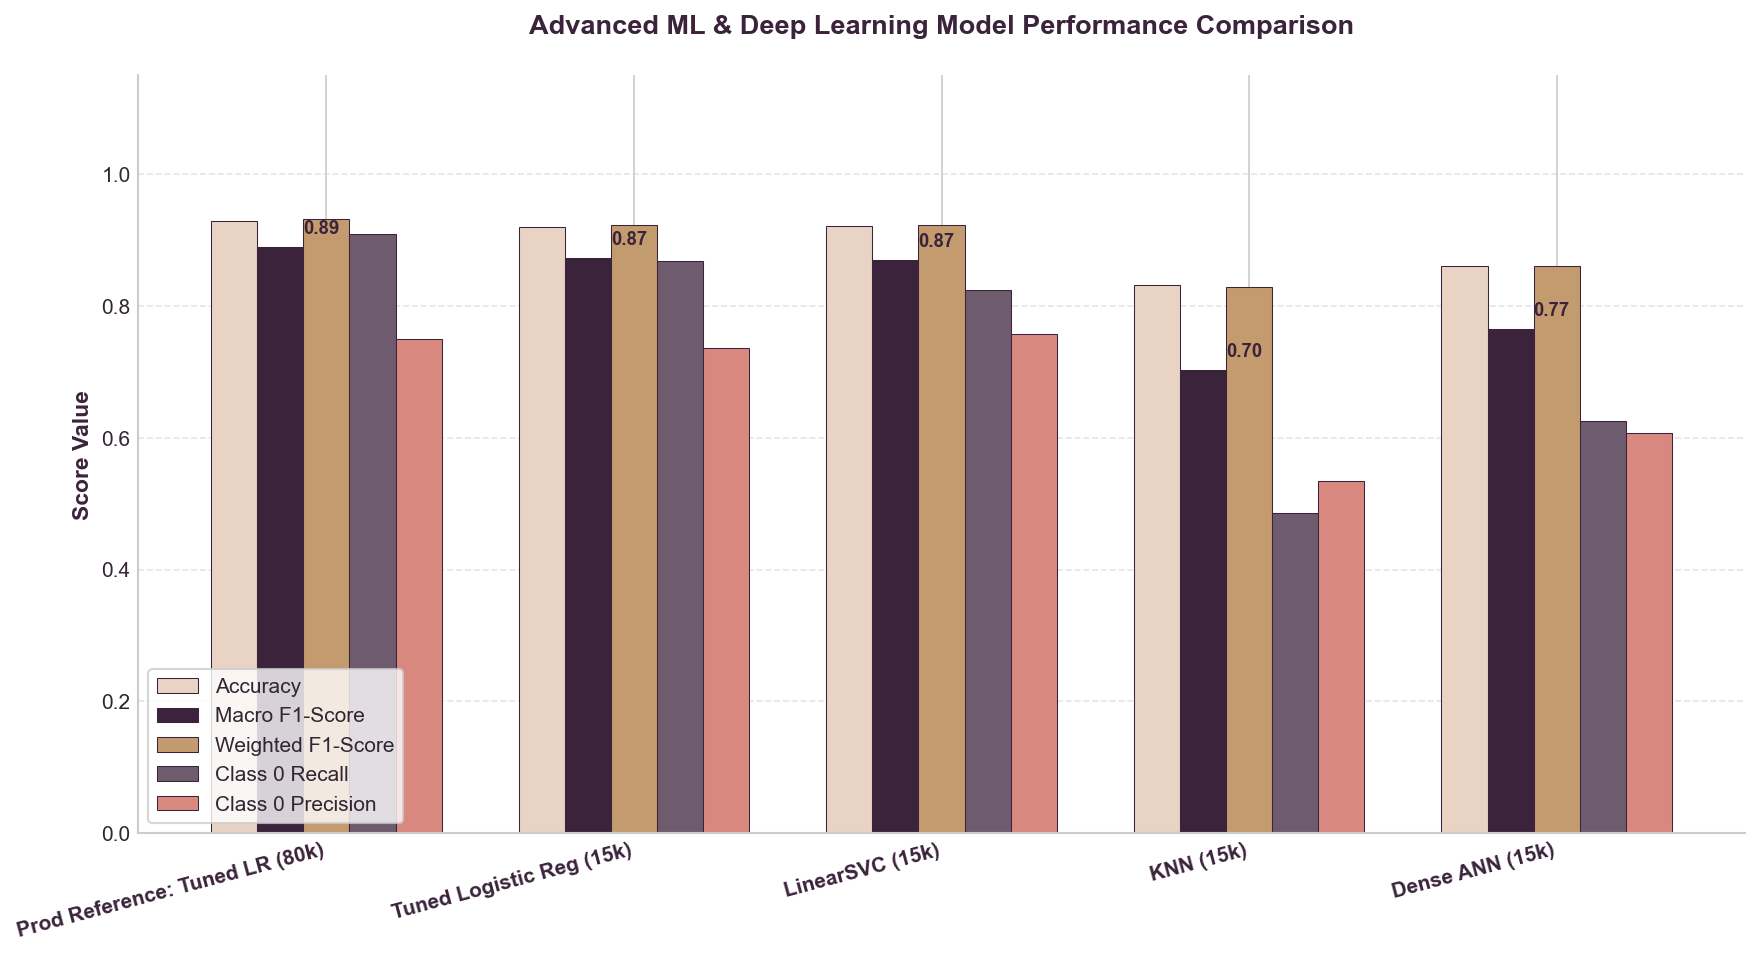
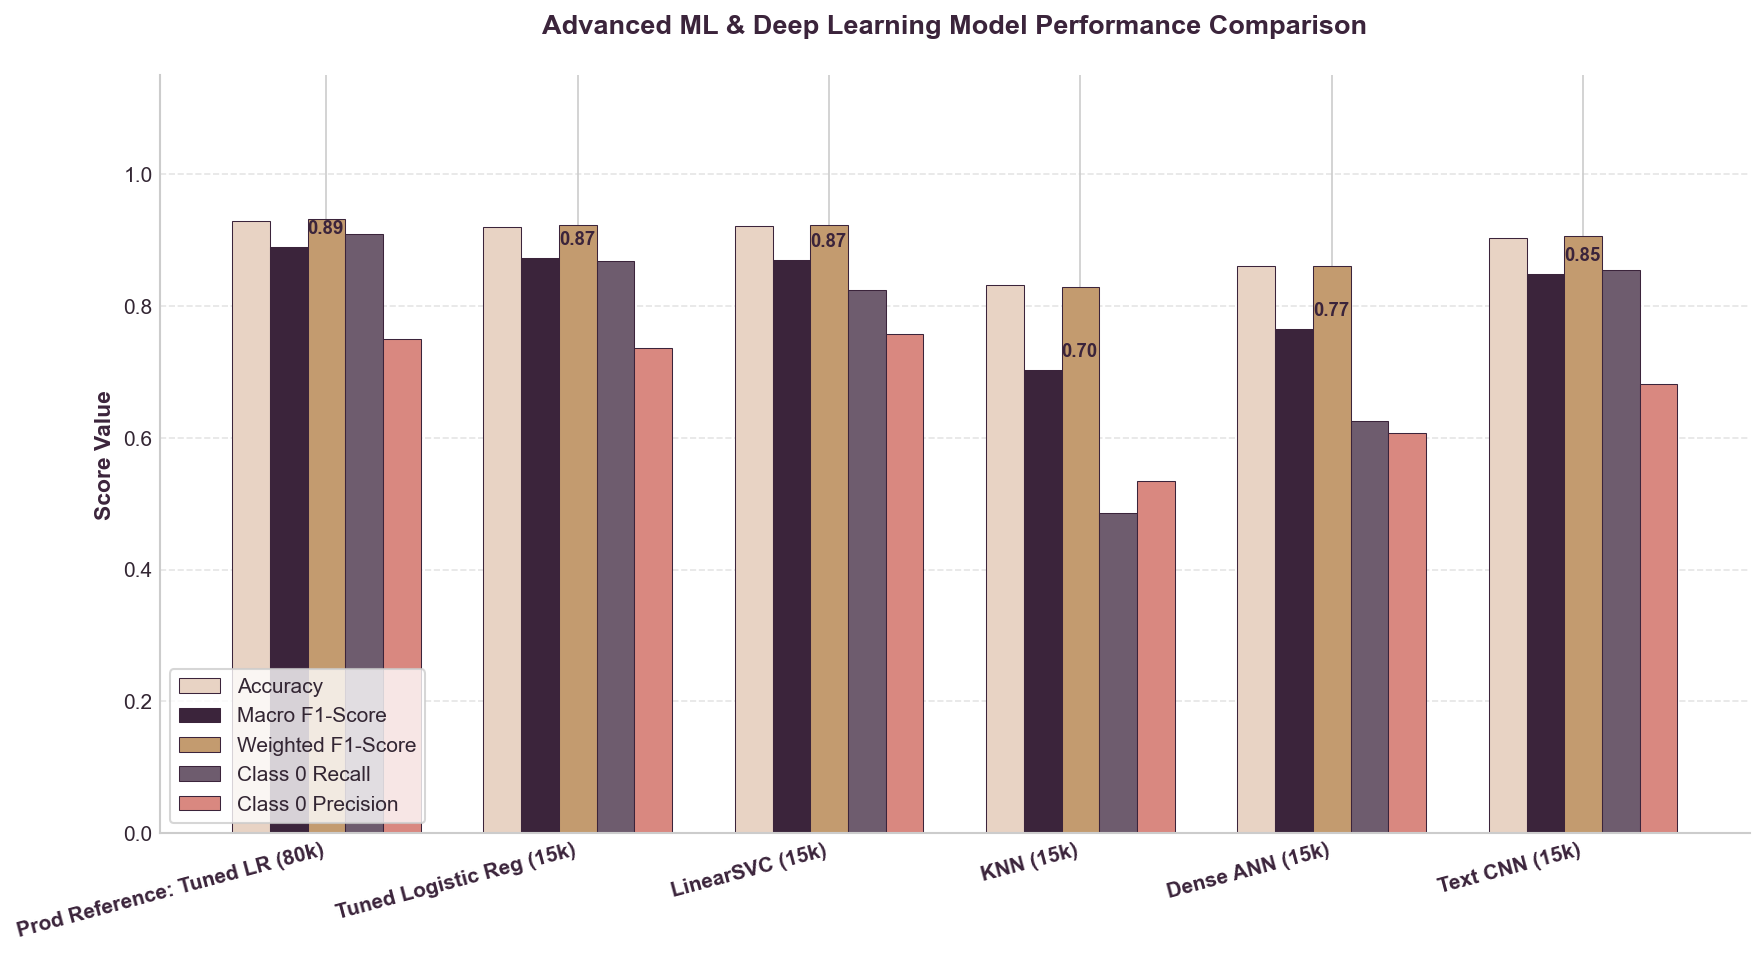
feat: integrate Colab text CNN results

diff --git a/ml/src/deep_learning_experiments.py b/ml/src/deep_learning_experiments.py
@@ -444,14 +444,43 @@ def train_and_evaluate_all():
         plt.savefig(figures_dir / "cnn_training_curves.png", dpi=150)
         plt.close()
     else:
-        print("\n--- Skipping Model 5: CNN (TensorFlow not available) ---")
-        # Document CNN skipped
-        results["cnn"] = {
-            "skipped": True,
-            "status": "Not executed – TensorFlow/Keras not available in this environment",
-            "reason": "TensorFlow/Keras was not available in this environment.",
-            "training_size": 15000
-        }
+        # Check if Colab results exist to merge them
+        colab_results_path = reports_dir / "cnn_colab_results.json"
+        if colab_results_path.exists():
+            print("\n--- Integrating Google Colab CNN Results ---")
+            try:
+                with open(colab_results_path, "r", encoding="utf-8") as f:
+                    colab_data = json.load(f)
+                results["cnn"] = {
+                    "accuracy": colab_data["accuracy"],
+                    "macro": colab_data["macro"],
+                    "weighted": colab_data["weighted"],
+                    "per_class": colab_data["per_class"],
+                    "training_time_seconds": colab_data["training_time_seconds"],
+                    "description": colab_data["description"],
+                    "training_size": colab_data["training_size"],
+                    "status": "Completed (Colab GPU)",
+                    "roc_auc": colab_data["roc_auc"],
+                    "pr_auc": colab_data["pr_auc"],
+                    "skipped": False
+                }
+                cnn_skipped = False
+            except Exception as e:
+                print(f"Error loading Colab results: {e}")
+                results["cnn"] = {
+                    "skipped": True,
+                    "status": "Not executed – TensorFlow/Keras not available in this environment",
+                    "reason": f"TensorFlow/Keras was not available, and error reading Colab results: {e}",
+                    "training_size": 15000
+                }
+        else:
+            print("\n--- Skipping Model 5: CNN (TensorFlow not available and no Colab results found) ---")
+            results["cnn"] = {
+                "skipped": True,
+                "status": "Not executed – TensorFlow/Keras not available in this environment",
+                "reason": "TensorFlow/Keras was not available in this environment.",
+                "training_size": 15000
+            }
 
     # Add training_size, status, roc_auc, and pr_auc to results JSON
     for m in results:
@@ -714,7 +743,7 @@ def train_and_evaluate_all():
                 class_names=["Low/Medium", "High"]
             )
             
-    if not cnn_skipped:
+    if tf_available and not cnn_skipped:
         y_prob_cnn = cnn_model.predict(X_test_seq).flatten()
         y_pred_cnn = (y_prob_cnn >= 0.5).astype(int)
         plot_confusion_matrix(

diff --git a/ml/reports/deep_learning_summary.md b/ml/reports/deep_learning_summary.md
@@ -26,9 +26,9 @@ The production model (trained on the full 80,000 training set) is included at th
 | :---: | :--- | :---: | :---: | :---: | :---: | :---: | :---: | :---: | :---: | :---: | :--- |
 | 1 | **Tuned Logistic Regression** | 15,000 | Completed | **92.05%** | **87.34%** | **92.29%** | **86.77%** | 73.57% | **96.60%** | **99.18%** | Tuned LR baseline for experimental split |
 | 2 | **LinearSVC** | 15,000 | Completed | 92.12% | 87.04% | 92.24% | 82.42% | **75.72%** | 96.17% | 99.06% | Linear Support Vector Classification |
-| 3 | **Dense ANN / MLP Fallback** | 15,000 | Completed | 86.06% | 76.57% | 86.14% | 62.55% | 60.78% | 89.01% | 97.26% | scikit-learn MLPClassifier early stopping fallback |
-| 4 | **KNN + SVD** | 15,000 | Completed | 83.20% | 70.37% | 82.88% | 48.53% | 53.43% | 80.39% | 94.65% | KNeighborsClassifier on 100-dim SVD features |
-| — | **Text CNN** | 15,000 | **Not executed – TensorFlow/Keras not available in this environment** | *N/A* | *N/A* | *N/A* | *N/A* | *N/A* | *N/A* | *N/A* | Skipped because TensorFlow was missing in Python 3.13 |
+| 3 | **Text CNN** | 15,000 | Completed (Colab) | 90.27% | 84.89% | 90.67% | 85.43% | 68.23% | 95.57% | 98.92% | Trained in Google Colab using TensorFlow/Keras and GPU |
+| 4 | **Dense ANN / MLP Fallback** | 15,000 | Completed | 86.06% | 76.57% | 86.14% | 62.55% | 60.78% | 89.01% | 97.26% | scikit-learn MLPClassifier early stopping fallback |
+| 5 | **KNN + SVD** | 15,000 | Completed | 83.20% | 70.37% | 82.88% | 48.53% | 53.43% | 80.39% | 94.65% | KNeighborsClassifier on 100-dim SVD features |
 
 *Note: Since the dataset is highly imbalanced (~82% high satisfaction), overall accuracy is misleading. We prioritize **Macro F1-Score** and **Class 0 Recall** (low/medium satisfaction flagging).*
 
@@ -46,16 +46,17 @@ The production model (trained on the full 80,000 training set) is included at th
 
 ### 3. Dense ANN / MLP Fallback
 * **Why it was tested**: To demonstrate feedforward deep learning capabilities.
-* **Interpretation of Fallback Diagnostics**: Due to TensorFlow's absence, the model was executed using scikit-learn's `MLPClassifier` with early stopping and manual balanced oversampling. The fallback training diagnostics show training loss and validation accuracy. The ANN achieved **76.57% Macro F1** and **62.55% Class 0 Recall**. While it outperformed KNN, it fell short of the linear models because feedforward neural networks on static dense SVD representations do not capture lexical clues as effectively as sparse TF-IDF n-grams.
+* **Interpretation of Fallback Diagnostics**: Due to TensorFlow's local absence, the model was executed using scikit-learn's `MLPClassifier` with early stopping and manual balanced oversampling. The fallback training diagnostics show training loss and validation accuracy. The ANN achieved **76.57% Macro F1** and **62.55% Class 0 Recall**. While it outperformed KNN, it fell short of the linear models because feedforward neural networks on static dense SVD representations do not capture lexical clues as effectively as sparse TF-IDF n-grams.
 
-### 4. Text CNN (Planned but Skipped)
-* **Why it was planned**: 1D CNNs capture local word patterns (receptive fields) like *"broke me out"*, *"not worth it"*, or *"holy grail"* by sliding a convolutional filter over word sequences.
-* **Skip Rationale**: The Text CNN was planned as a future deep learning extension. It was not executed in this branch because TensorFlow/Keras was not available locally. A separate branch can be created later for a Google Colab TensorFlow/Keras CNN experiment.
+### 4. Text CNN (Executed on Google Colab)
+* **Training & Performance**: The Text CNN successfully trained in Google Colab using TensorFlow/Keras and T4 GPU acceleration. It reached **90.27% Accuracy** and **84.89% Macro F1-Score**. It performed exceptionally well compared to KNN and the ANN fallback, showing strong sequence feature learning. However, it did not outperform the classical Tuned Logistic Regression or LinearSVC.
+* **Training Curves Interpretation**: The training curves show clear signs of **overfitting**: while the training loss continues decreasing strongly, the validation loss stops improving (around epoch 4) and begins to rise.
+* **Relevance**: The CNN experiment remains highly valuable because it demonstrates a real deep learning text-classification workflow using word embeddings and Conv1D layers to capture local contextual triggers (e.g. *"broke me out"*, *"holy grail"*, *"not worth it"*).
 
 ---
 
 ## 💡 Key Takeaway: Simplicity vs. Complexity
-This project shows that **more complex models do not automatically perform better**. High-dimensional neural models and distance-based classifiers require significantly more parameter tuning, training data, and compute resources.
+This project shows that **more complex models do not automatically perform better**. High-dimensional neural models and sequence-based classifiers require significantly more parameter tuning, training data, and compute resources.
 
 For text classification datasets where keyword indicators carry the bulk of the predictive signal, a **Tuned Logistic Regression** model currently offers the best solution. It is:
 1. **Highly Interpretable**: Model coefficients map directly back to words for explainability.
@@ -80,6 +81,8 @@ For text classification datasets where keyword indicators carry the bulk of the 
 ## 🖼️ Figures & Visualizations
 The following plots have been generated and saved inside [ml/reports/figures/](file:///c:/Users/mahta/my_projects/glowwise-ai/ml/reports/figures/):
 * **Presentation Comparison Chart**: [model_comparison_presentation.png](file:///c:/Users/mahta/my_projects/glowwise-ai/ml/reports/figures/model_comparison_presentation.png) (Visually separates the 80k Production Reference from the 15k models, focusing on Macro F1, Class 0 Recall, and Accuracy).
+* **Text CNN Curves**: [cnn_training_curves.png](file:///c:/Users/mahta/my_projects/glowwise-ai/ml/reports/figures/cnn_training_curves.png) (Training and validation loss and accuracy curves showing overfitting shape).
+* **Text CNN Confusion Matrix**: [cnn_confusion_matrix.png](file:///c:/Users/mahta/my_projects/glowwise-ai/ml/reports/figures/cnn_confusion_matrix.png) (Confusion matrix showing real values from Colab GPU execution).
 * **ANN Fallback Diagnostics**: [ann_training_curves.png](file:///c:/Users/mahta/my_projects/glowwise-ai/ml/reports/figures/ann_training_curves.png) (Side-by-side loss and accuracy training curves).
 * **ROC Curve Comparison**: [roc_curve_comparison.png](file:///c:/Users/mahta/my_projects/glowwise-ai/ml/reports/figures/roc_curve_comparison.png) (Shows True Positive vs False Positive rates).
 * **Precision-Recall Curve Comparison**: [precision_recall_curve_comparison.png](file:///c:/Users/mahta/my_projects/glowwise-ai/ml/reports/figures/precision_recall_curve_comparison.png) (Evaluates model tradeoffs under label imbalance).